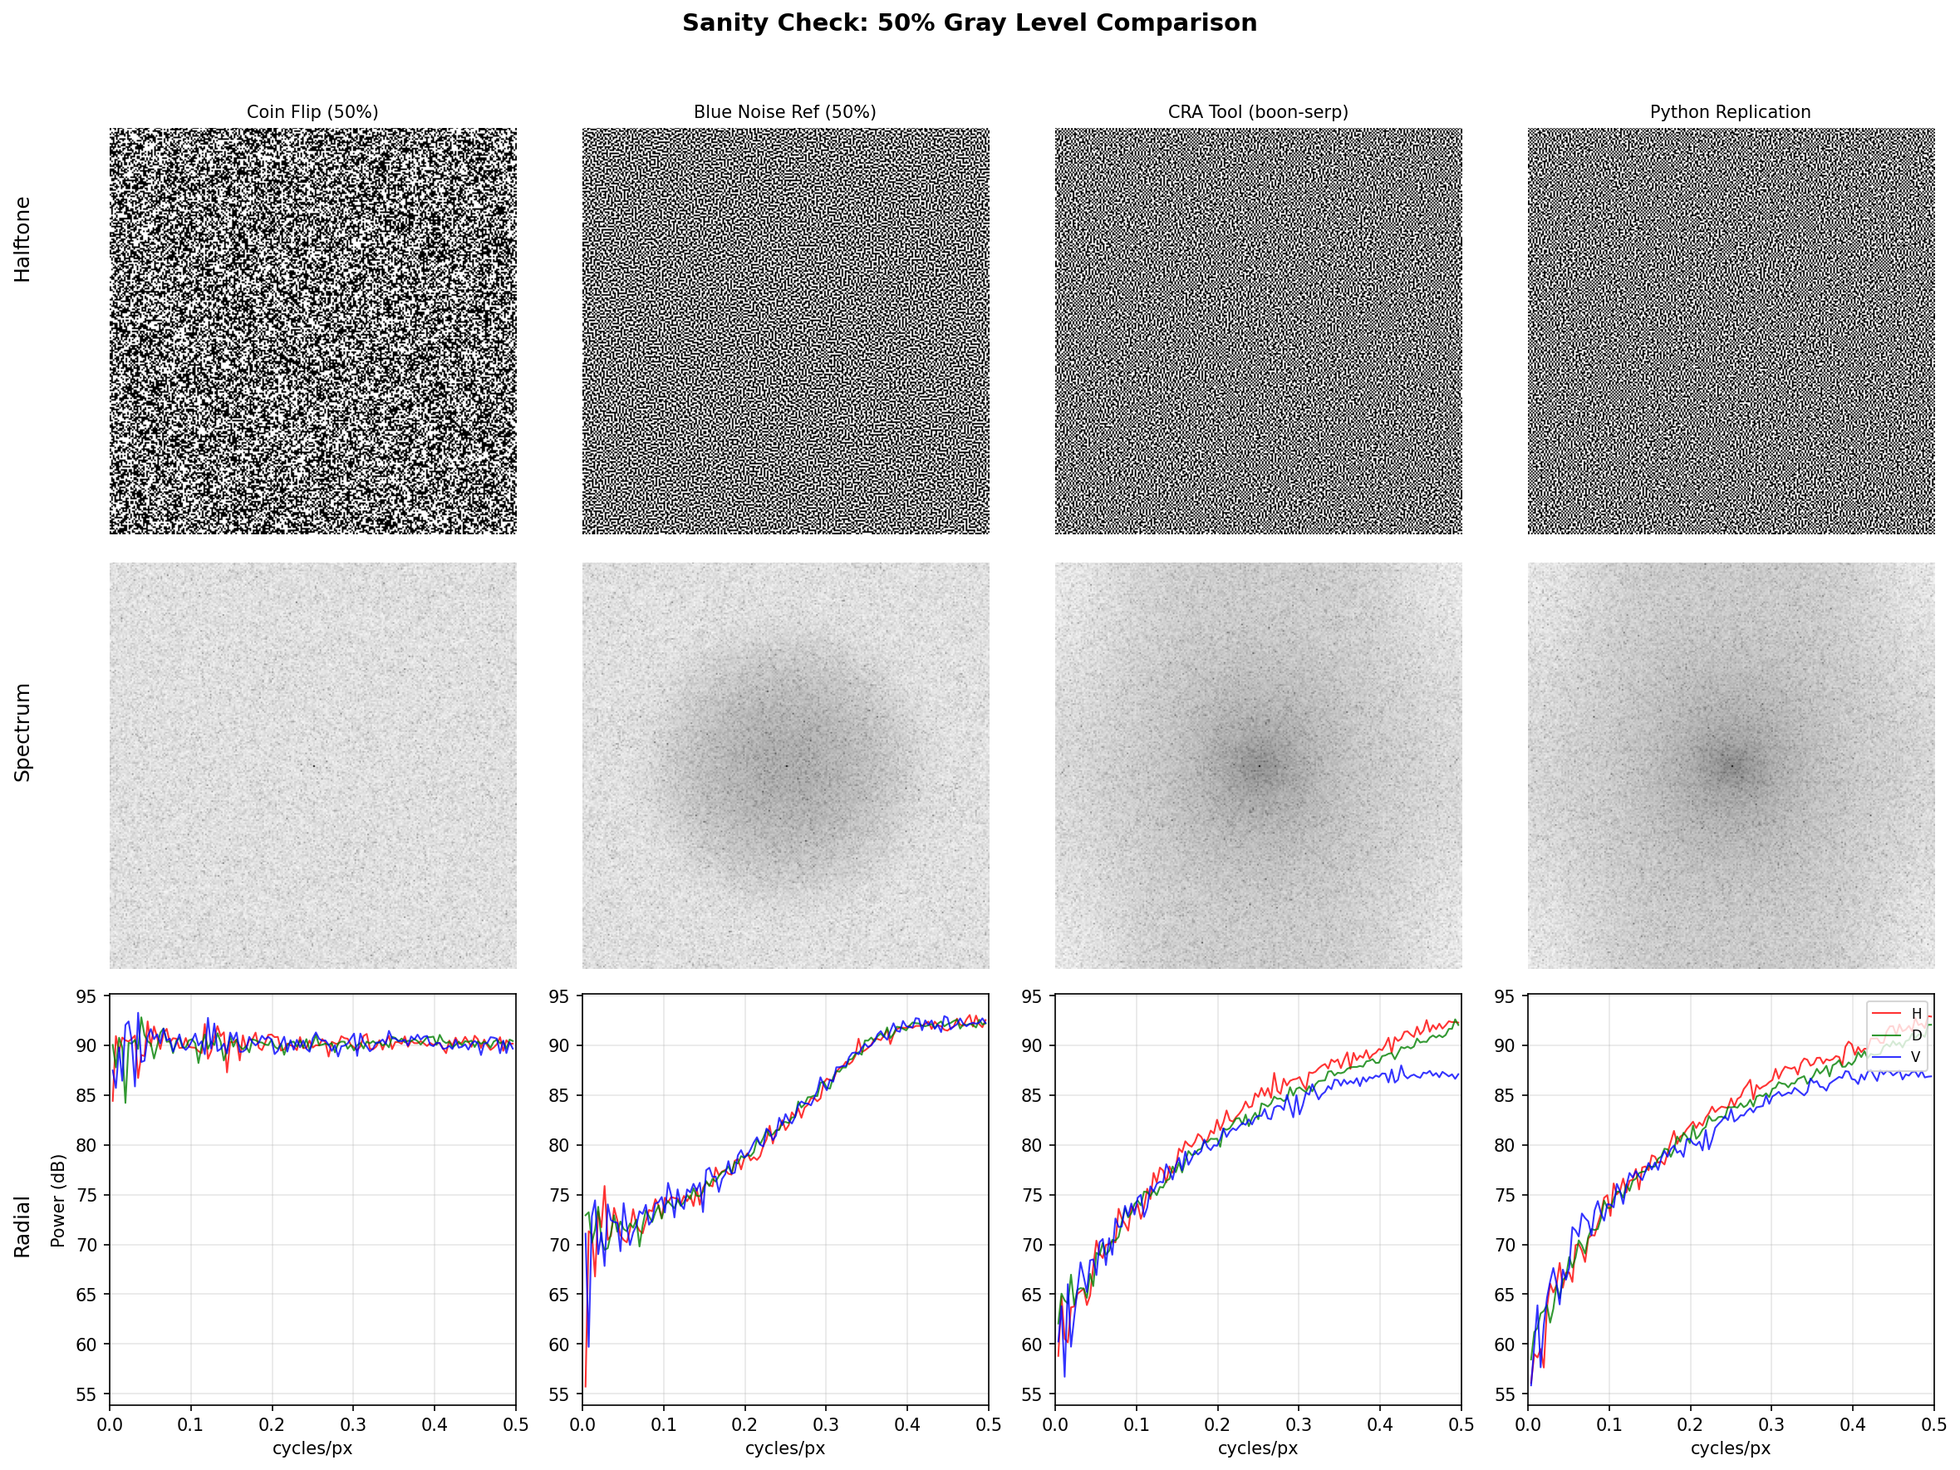
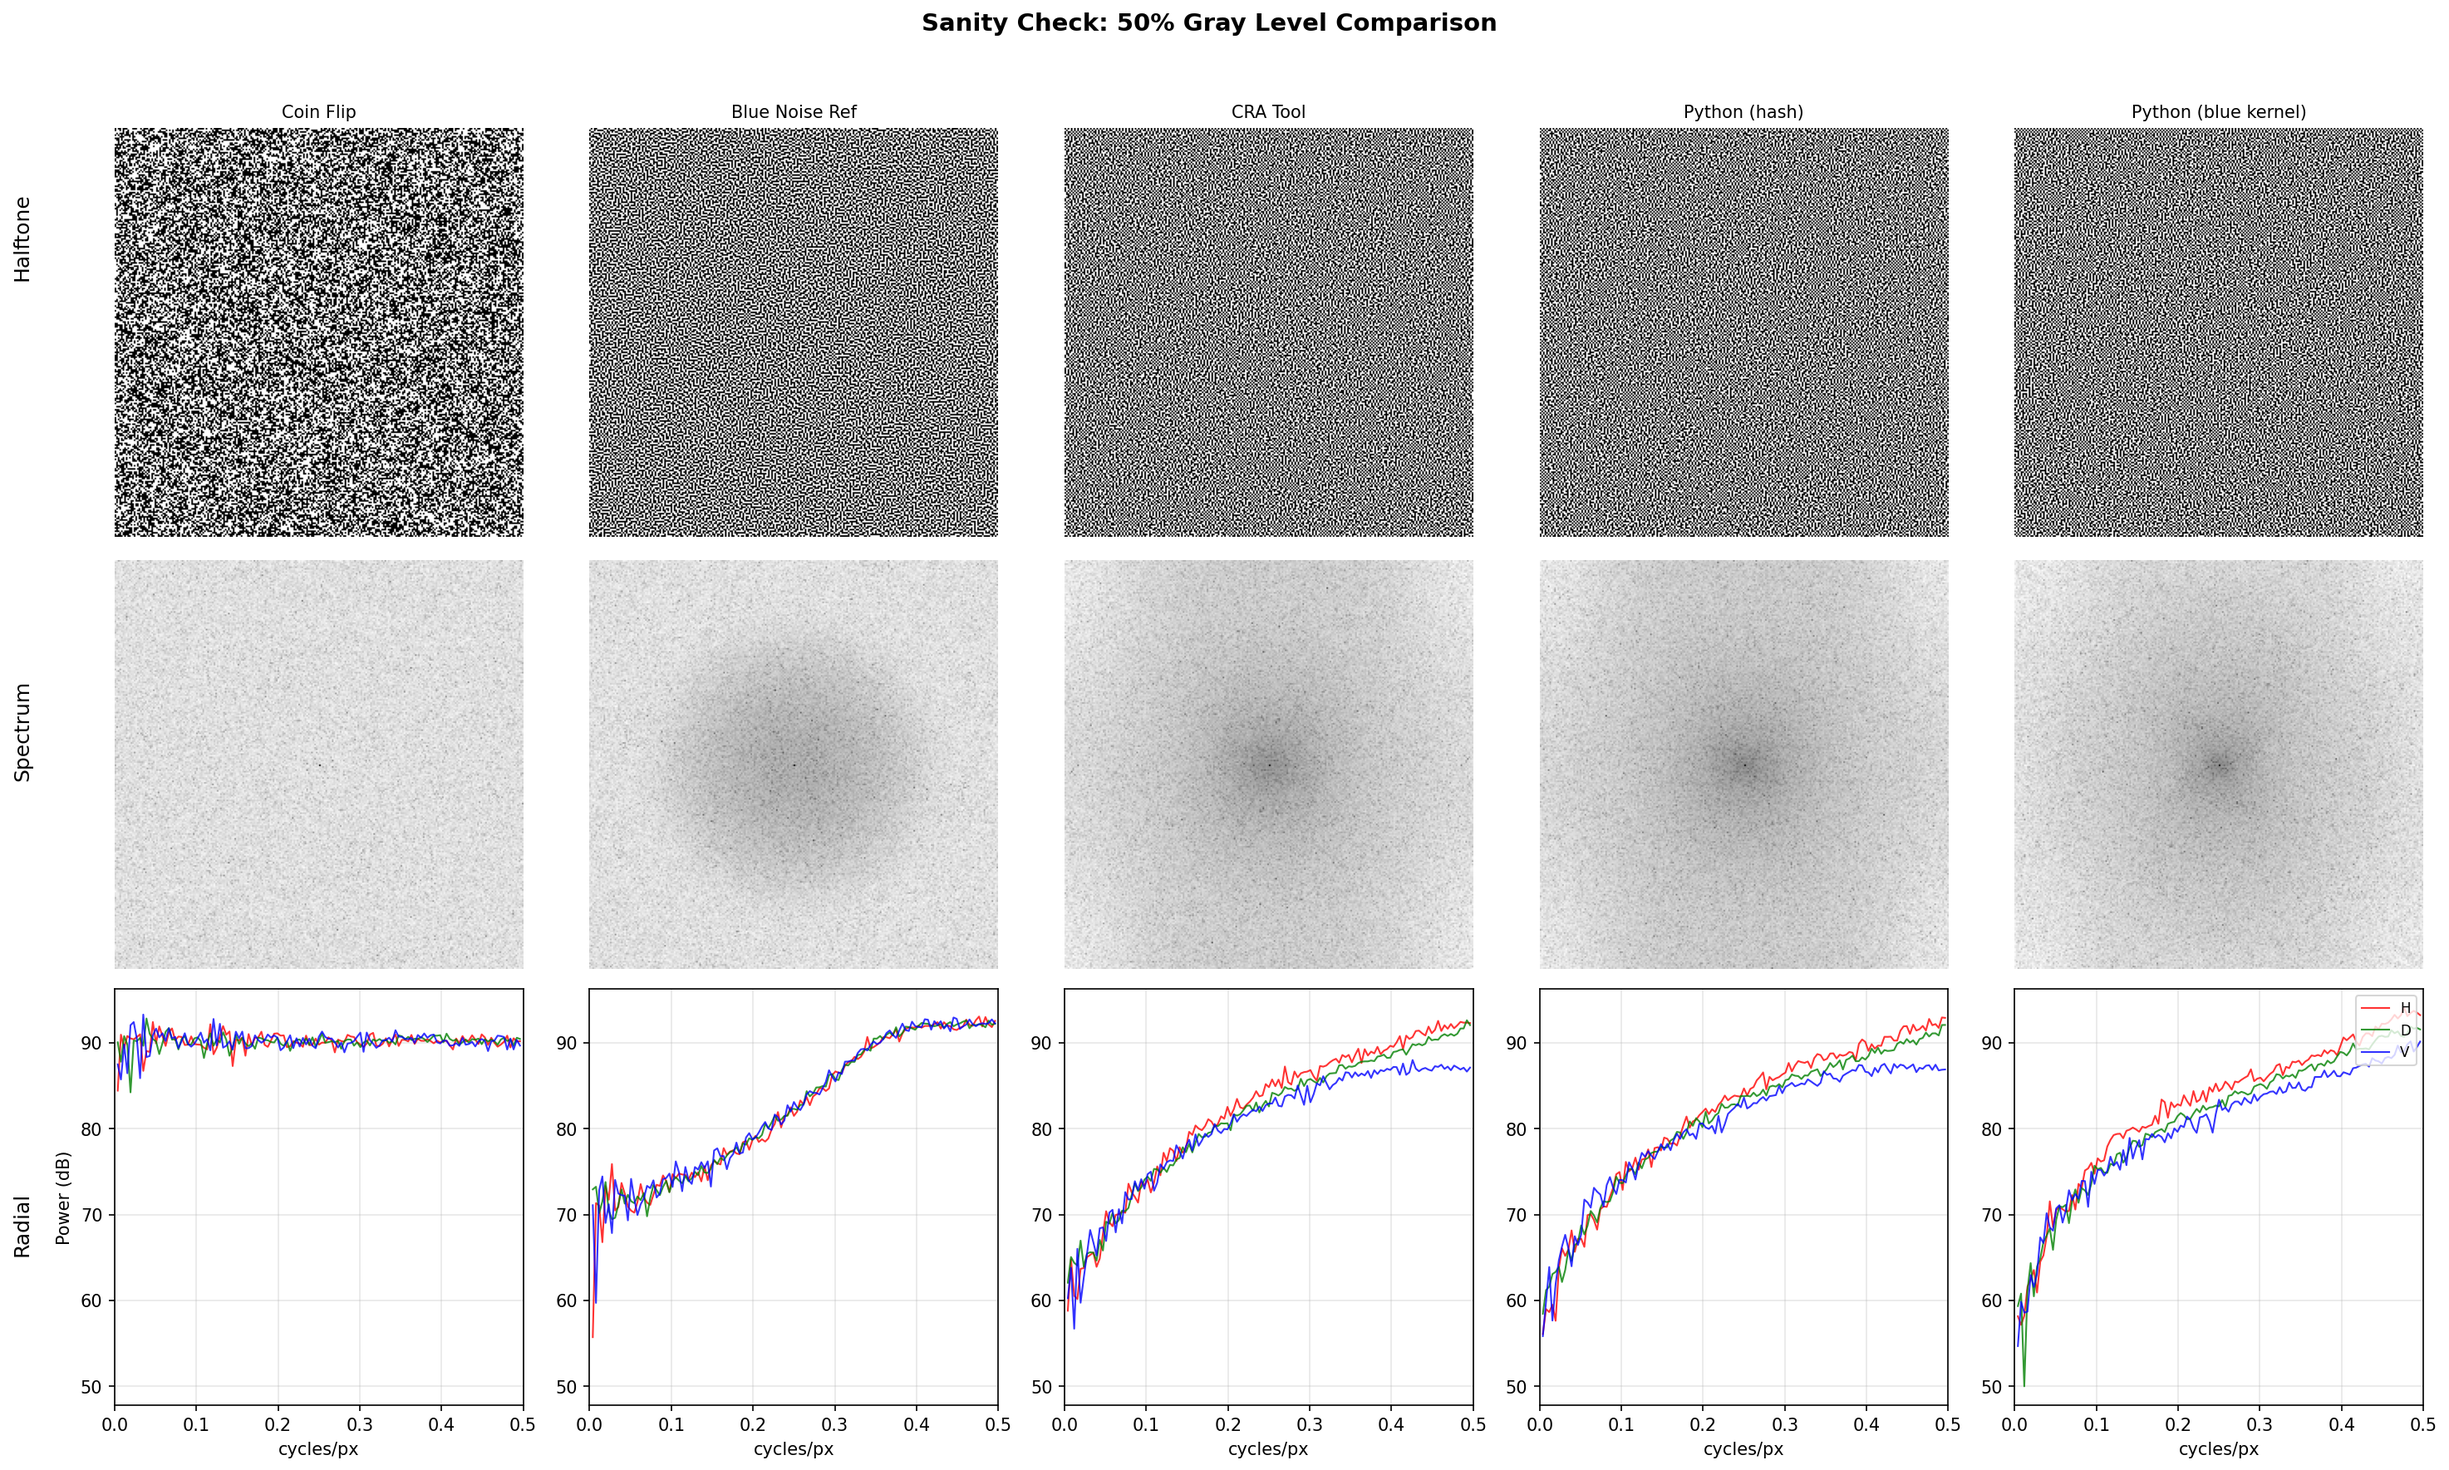
Recursive blue noise

diff --git a/tools/analyze_dither.py b/tools/analyze_dither.py
@@ -537,15 +537,62 @@ def analyze_rng_noise(base_dir: Path, output_dir: Path):
         print(f"  {output_path.name}")
 
 
+def analyze_blue_kernel_experiment(base_dir: Path, output_dir: Path):
+    """
+    Experimental: Compare standard dithering vs blue-noise kernel selection.
+
+    Standard: hash(x,y) selects FS vs JJN kernel (white noise selection)
+    Blue-kernel: Pre-dithered 50% pattern selects kernel (blue noise selection)
+
+    Tests at multiple gray levels to see if blue noise kernel selection improves results.
+    """
+    import sys
+    sys.path.insert(0, str(base_dir.parent / 'tools'))
+    from our_method_dither import our_method_dither, our_method_dither_with_blue_noise_kernel
+
+    size = 256
+    gray_levels = [64, 85, 127, 170, 191]  # Various densities
+
+    for gray_level in gray_levels:
+        images = {}
+
+        # Standard method (hash-based kernel selection)
+        standard = our_method_dither(float(gray_level), size, size, seed=0)
+        images[f'Standard (hash)'] = standard.astype(np.float32)
+
+        # Blue kernel method (blue noise kernel selection)
+        blue_kernel = our_method_dither_with_blue_noise_kernel(float(gray_level), size, size, seed=0)
+        images[f'Blue Kernel'] = blue_kernel.astype(np.float32)
+
+        # Blue noise reference (thresholded)
+        blue_noise_path = base_dir / 'blue_noise_256.png'
+        if blue_noise_path.exists():
+            blue_noise = load_image(blue_noise_path)
+            blue_ref = np.where(blue_noise < gray_level, 255.0, 0.0)
+            images['Blue Noise Ref'] = blue_ref
+
+        # Generate comparison
+        output_path = output_dir / f"blue_kernel_exp_gray_{gray_level:03d}.png"
+        plot_comparison(images, f"Blue Kernel Experiment: Gray {gray_level} ({gray_level/255*100:.0f}%)", output_path)
+        print(f"  {output_path.name}")
+
+        # Print stats
+        std_white = np.mean(standard == 255) * 100
+        blue_white = np.mean(blue_kernel == 255) * 100
+        diff_pct = np.sum(standard != blue_kernel) / (size * size) * 100
+        print(f"    Standard white: {std_white:.2f}%, Blue kernel white: {blue_white:.2f}%, Pixel diff: {diff_pct:.1f}%")
+
+
 def analyze_sanity_check(base_dir: Path, output_dir: Path):
     """
-    Sanity check: compare coin flip, blue noise, CRA tool, and Python replication at 50% gray.
+    Sanity check: compare coin flip, blue noise, CRA tool, Python replication, and blue-kernel experiment at 50% gray.
 
     Verifies that our Python replication matches CRA output and shows the quality spectrum:
     - Coin flip (white noise) - worst
     - Blue noise reference - best
     - CRA tool output
-    - Python replication
+    - Python replication (standard hash-based kernel)
+    - Python blue-kernel (experimental: blue noise kernel selection)
     """
     import subprocess
     import sys
@@ -558,31 +605,34 @@ def analyze_sanity_check(base_dir: Path, output_dir: Path):
     # 1. Coin flip at 50%
     rng = np.random.default_rng(seed=42)
     coin_flip = np.where(rng.random((size, size)) < 0.5, 255.0, 0.0)
-    images['Coin Flip (50%)'] = coin_flip
+    images['Coin Flip'] = coin_flip
 
     # 2. Blue noise reference at 50%
     blue_noise_path = base_dir / 'blue_noise_256.png'
     if blue_noise_path.exists():
         blue_noise = load_image(blue_noise_path)
         blue_ref = np.where(blue_noise < gray_level, 255.0, 0.0)
-        images['Blue Noise Ref (50%)'] = blue_ref
+        images['Blue Noise Ref'] = blue_ref
     else:
         print(f"  Warning: {blue_noise_path} not found, skipping blue noise reference")
 
     # 3. CRA tool output for gray_127
     cra_path = base_dir / 'dithered' / 'boon-serpentine' / 'gray_127_boon-serpentine.png'
     if cra_path.exists():
-        images['CRA Tool (boon-serp)'] = load_image(cra_path)
+        images['CRA Tool'] = load_image(cra_path)
     else:
         print(f"  Warning: {cra_path} not found, skipping CRA output")
 
-    # 4. Python replication
-    # Import and run our method
+    # 4. Python replication (standard)
     sys.path.insert(0, str(base_dir.parent / 'tools'))
     try:
-        from our_method_dither import our_method_dither
+        from our_method_dither import our_method_dither, our_method_dither_with_blue_noise_kernel
         py_result = our_method_dither(float(gray_level), size, size, seed=0)
-        images['Python Replication'] = py_result.astype(np.float32)
+        images['Python (hash)'] = py_result.astype(np.float32)
+
+        # 5. Python blue-kernel (experimental)
+        py_blue_kernel = our_method_dither_with_blue_noise_kernel(float(gray_level), size, size, seed=0)
+        images['Python (blue kernel)'] = py_blue_kernel.astype(np.float32)
     except ImportError as e:
         print(f"  Warning: Could not import our_method_dither: {e}")
 
@@ -595,21 +645,26 @@ def analyze_sanity_check(base_dir: Path, output_dir: Path):
     plot_comparison(images, "Sanity Check: 50% Gray Level Comparison", output_path)
     print(f"  {output_path.name}")
 
-    # Print pixel-wise comparison if we have both CRA and Python
-    # Note: Exact pixel match isn't expected due to:
-    # - CRA has edge seeding (duplicates edge pixels into buffer padding)
-    # - CRA processes seeding rows/cols first, accumulating error before real image
-    # - Python version is simplified without edge seeding
+    # Print comparison stats
+    # Note: Exact pixel match between CRA and Python isn't expected due to edge seeding
     # What matters is spectral similarity, not exact pixel match
-    if 'CRA Tool (boon-serp)' in images and 'Python Replication' in images:
-        cra_img = images['CRA Tool (boon-serp)']
-        py_img = images['Python Replication']
-        match_pct = np.mean(cra_img == py_img) * 100
-        print(f"  CRA vs Python pixel match: {match_pct:.2f}% (not expected to be high due to edge seeding)")
-        # Compare white pixel percentages (should be similar)
-        cra_white = np.mean(cra_img == 255) * 100
-        py_white = np.mean(py_img == 255) * 100
-        print(f"  CRA white pixels: {cra_white:.2f}%, Python: {py_white:.2f}% (should be ~50%)")
+    if 'CRA Tool' in images and 'Python (hash)' in images:
+        cra_img = images['CRA Tool']
+        py_hash = images['Python (hash)']
+        match_pct = np.mean(cra_img == py_hash) * 100
+        print(f"  CRA vs Python (hash) pixel match: {match_pct:.2f}%")
+
+    if 'Python (hash)' in images and 'Python (blue kernel)' in images:
+        py_hash = images['Python (hash)']
+        py_blue = images['Python (blue kernel)']
+        diff_pct = np.sum(py_hash != py_blue) / py_hash.size * 100
+        print(f"  Python (hash) vs (blue kernel) pixel diff: {diff_pct:.1f}%")
+
+    # White pixel percentages
+    print("  White pixel percentages:")
+    for name, img in images.items():
+        white_pct = np.mean(img == 255) * 100
+        print(f"    {name}: {white_pct:.2f}%")
 
 
 def main():
@@ -621,6 +676,7 @@ def main():
     parser.add_argument('--rng', action='store_true', help='Analyze RNG noise images')
     parser.add_argument('--hash', action='store_true', help='Compare boon hash functions (lowbias32 vs wang)')
     parser.add_argument('--sanity', action='store_true', help='Sanity check: compare coin flip, blue noise, CRA, Python replication')
+    parser.add_argument('--blue-kernel', action='store_true', help='Experimental: compare standard vs blue-noise kernel selection')
     args = parser.parse_args()
 
     base_dir = Path(__file__).parent / "test_images"
@@ -632,6 +688,11 @@ def main():
         # Single image analysis
         output_path = args.output or output_dir / f"{args.input.stem}_analysis.png"
         analyze_single(args.input, output_path)
+    elif args.blue_kernel:
+        # Blue kernel experiment
+        print("Running blue kernel experiment...")
+        analyze_blue_kernel_experiment(base_dir, output_dir)
+        print(f"\nDone! Blue kernel experiment saved to {output_dir}")
     elif args.sanity:
         # Sanity check comparison
         print("Running sanity check comparison...")

diff --git a/tools/our_method_dither.py b/tools/our_method_dither.py
@@ -126,6 +126,79 @@ def apply_jjn_rtl(buf: np.ndarray, x: int, y: int, err: float):
             buf[y + 2, x - 2] += err * (1.0 / 48.0)
 
 
+def our_method_dither_with_blue_noise_kernel(
+    gray_level: float,
+    width: int = 256,
+    height: int = 256,
+    seed: int = 0,
+    kernel_pattern: np.ndarray = None
+) -> np.ndarray:
+    """
+    Experimental: Use a pre-computed blue noise pattern for kernel selection.
+
+    Instead of using hash(x,y) directly (white noise), this uses a dithered
+    50% gray pattern (which has blue noise characteristics) to select kernels.
+
+    Args:
+        gray_level: Input gray value (0-255, can be fractional like 127.5)
+        width: Output image width
+        height: Output image height
+        seed: Random seed for generating kernel pattern if not provided
+        kernel_pattern: Pre-computed binary pattern for kernel selection.
+                       If None, generates one using our_method_dither at 50%.
+
+    Returns:
+        np.ndarray: 1-bit dithered image (values 0 or 255)
+    """
+    # Generate kernel selection pattern if not provided
+    if kernel_pattern is None:
+        # Use a different seed for kernel pattern to avoid correlation
+        kernel_seed = seed ^ 0xDEADBEEF
+        kernel_pattern = our_method_dither(127.5, width, height, kernel_seed)
+
+    # Initialize buffer with uniform gray level
+    buf = np.full((height, width), gray_level, dtype=np.float32)
+
+    # Output array
+    output = np.zeros((height, width), dtype=np.uint8)
+
+    for y in range(height):
+        # Serpentine: alternate direction each row
+        if y % 2 == 0:
+            x_range = range(width)
+            is_rtl = False
+        else:
+            x_range = range(width - 1, -1, -1)
+            is_rtl = True
+
+        for x in x_range:
+            old_val = buf[y, x]
+
+            # 1-bit quantization: threshold at 127.5
+            new_val = 255.0 if old_val >= 127.5 else 0.0
+            output[y, x] = int(new_val)
+
+            # Compute error
+            err = old_val - new_val
+
+            # Use kernel pattern for selection (blue noise instead of white noise)
+            use_jjn = kernel_pattern[y, x] > 0
+
+            # Apply kernel
+            if use_jjn:
+                if is_rtl:
+                    apply_jjn_rtl(buf, x, y, err)
+                else:
+                    apply_jjn_ltr(buf, x, y, err)
+            else:
+                if is_rtl:
+                    apply_fs_rtl(buf, x, y, err)
+                else:
+                    apply_fs_ltr(buf, x, y, err)
+
+    return output
+
+
 def our_method_dither(gray_level: float, width: int = 256, height: int = 256, seed: int = 0) -> np.ndarray:
     """
     Apply 'Our Method' dithering to a uniform gray level.
@@ -201,21 +274,53 @@ def main():
     parser.add_argument("-o", "--output", type=str, help="Output path (default: our_method_{level}.png)")
     parser.add_argument("--size", type=int, default=256, help="Image size (default: 256)")
     parser.add_argument("--seed", type=int, default=0, help="Random seed (default: 0)")
+    parser.add_argument("--blue-kernel", action="store_true",
+                        help="Experimental: use blue noise pattern for kernel selection instead of hash")
+    parser.add_argument("--compare", action="store_true",
+                        help="Generate both standard and blue-kernel versions for comparison")
 
     args = parser.parse_args()
 
-    output_path = args.output or f"our_method_{args.gray_level:.1f}.png"
+    if args.compare:
+        # Generate both versions for comparison
+        print(f"Generating comparison at gray level {args.gray_level}...")
 
-    print(f"Generating {args.size}x{args.size} dithered image at gray level {args.gray_level}...")
+        standard = our_method_dither(args.gray_level, args.size, args.size, args.seed)
+        blue_kernel = our_method_dither_with_blue_noise_kernel(args.gray_level, args.size, args.size, args.seed)
 
-    result = our_method_dither(args.gray_level, args.size, args.size, args.seed)
+        # Save both
+        standard_path = f"our_method_{args.gray_level:.1f}_standard.png"
+        blue_path = f"our_method_{args.gray_level:.1f}_blue_kernel.png"
 
-    Image.fromarray(result, mode='L').save(output_path)
-    print(f"Saved to {output_path}")
+        Image.fromarray(standard, mode='L').save(standard_path)
+        Image.fromarray(blue_kernel, mode='L').save(blue_path)
 
-    # Print statistics
-    white_pct = np.mean(result == 255) * 100
-    print(f"White pixels: {white_pct:.2f}% (expected: {args.gray_level / 255 * 100:.2f}%)")
+        print(f"Standard (hash-based kernel): {standard_path}")
+        print(f"  White pixels: {np.mean(standard == 255) * 100:.2f}%")
+        print(f"Blue noise kernel: {blue_path}")
+        print(f"  White pixels: {np.mean(blue_kernel == 255) * 100:.2f}%")
+
+        # Pixel difference
+        diff = np.sum(standard != blue_kernel)
+        print(f"Pixel difference: {diff} ({diff / (args.size * args.size) * 100:.2f}%)")
+
+    else:
+        output_path = args.output or f"our_method_{args.gray_level:.1f}.png"
+
+        print(f"Generating {args.size}x{args.size} dithered image at gray level {args.gray_level}...")
+
+        if args.blue_kernel:
+            print("Using experimental blue noise kernel selection...")
+            result = our_method_dither_with_blue_noise_kernel(args.gray_level, args.size, args.size, args.seed)
+        else:
+            result = our_method_dither(args.gray_level, args.size, args.size, args.seed)
+
+        Image.fromarray(result, mode='L').save(output_path)
+        print(f"Saved to {output_path}")
+
+        # Print statistics
+        white_pct = np.mean(result == 255) * 100
+        print(f"White pixels: {white_pct:.2f}% (expected: {args.gray_level / 255 * 100:.2f}%)")
 
 
 if __name__ == "__main__":
